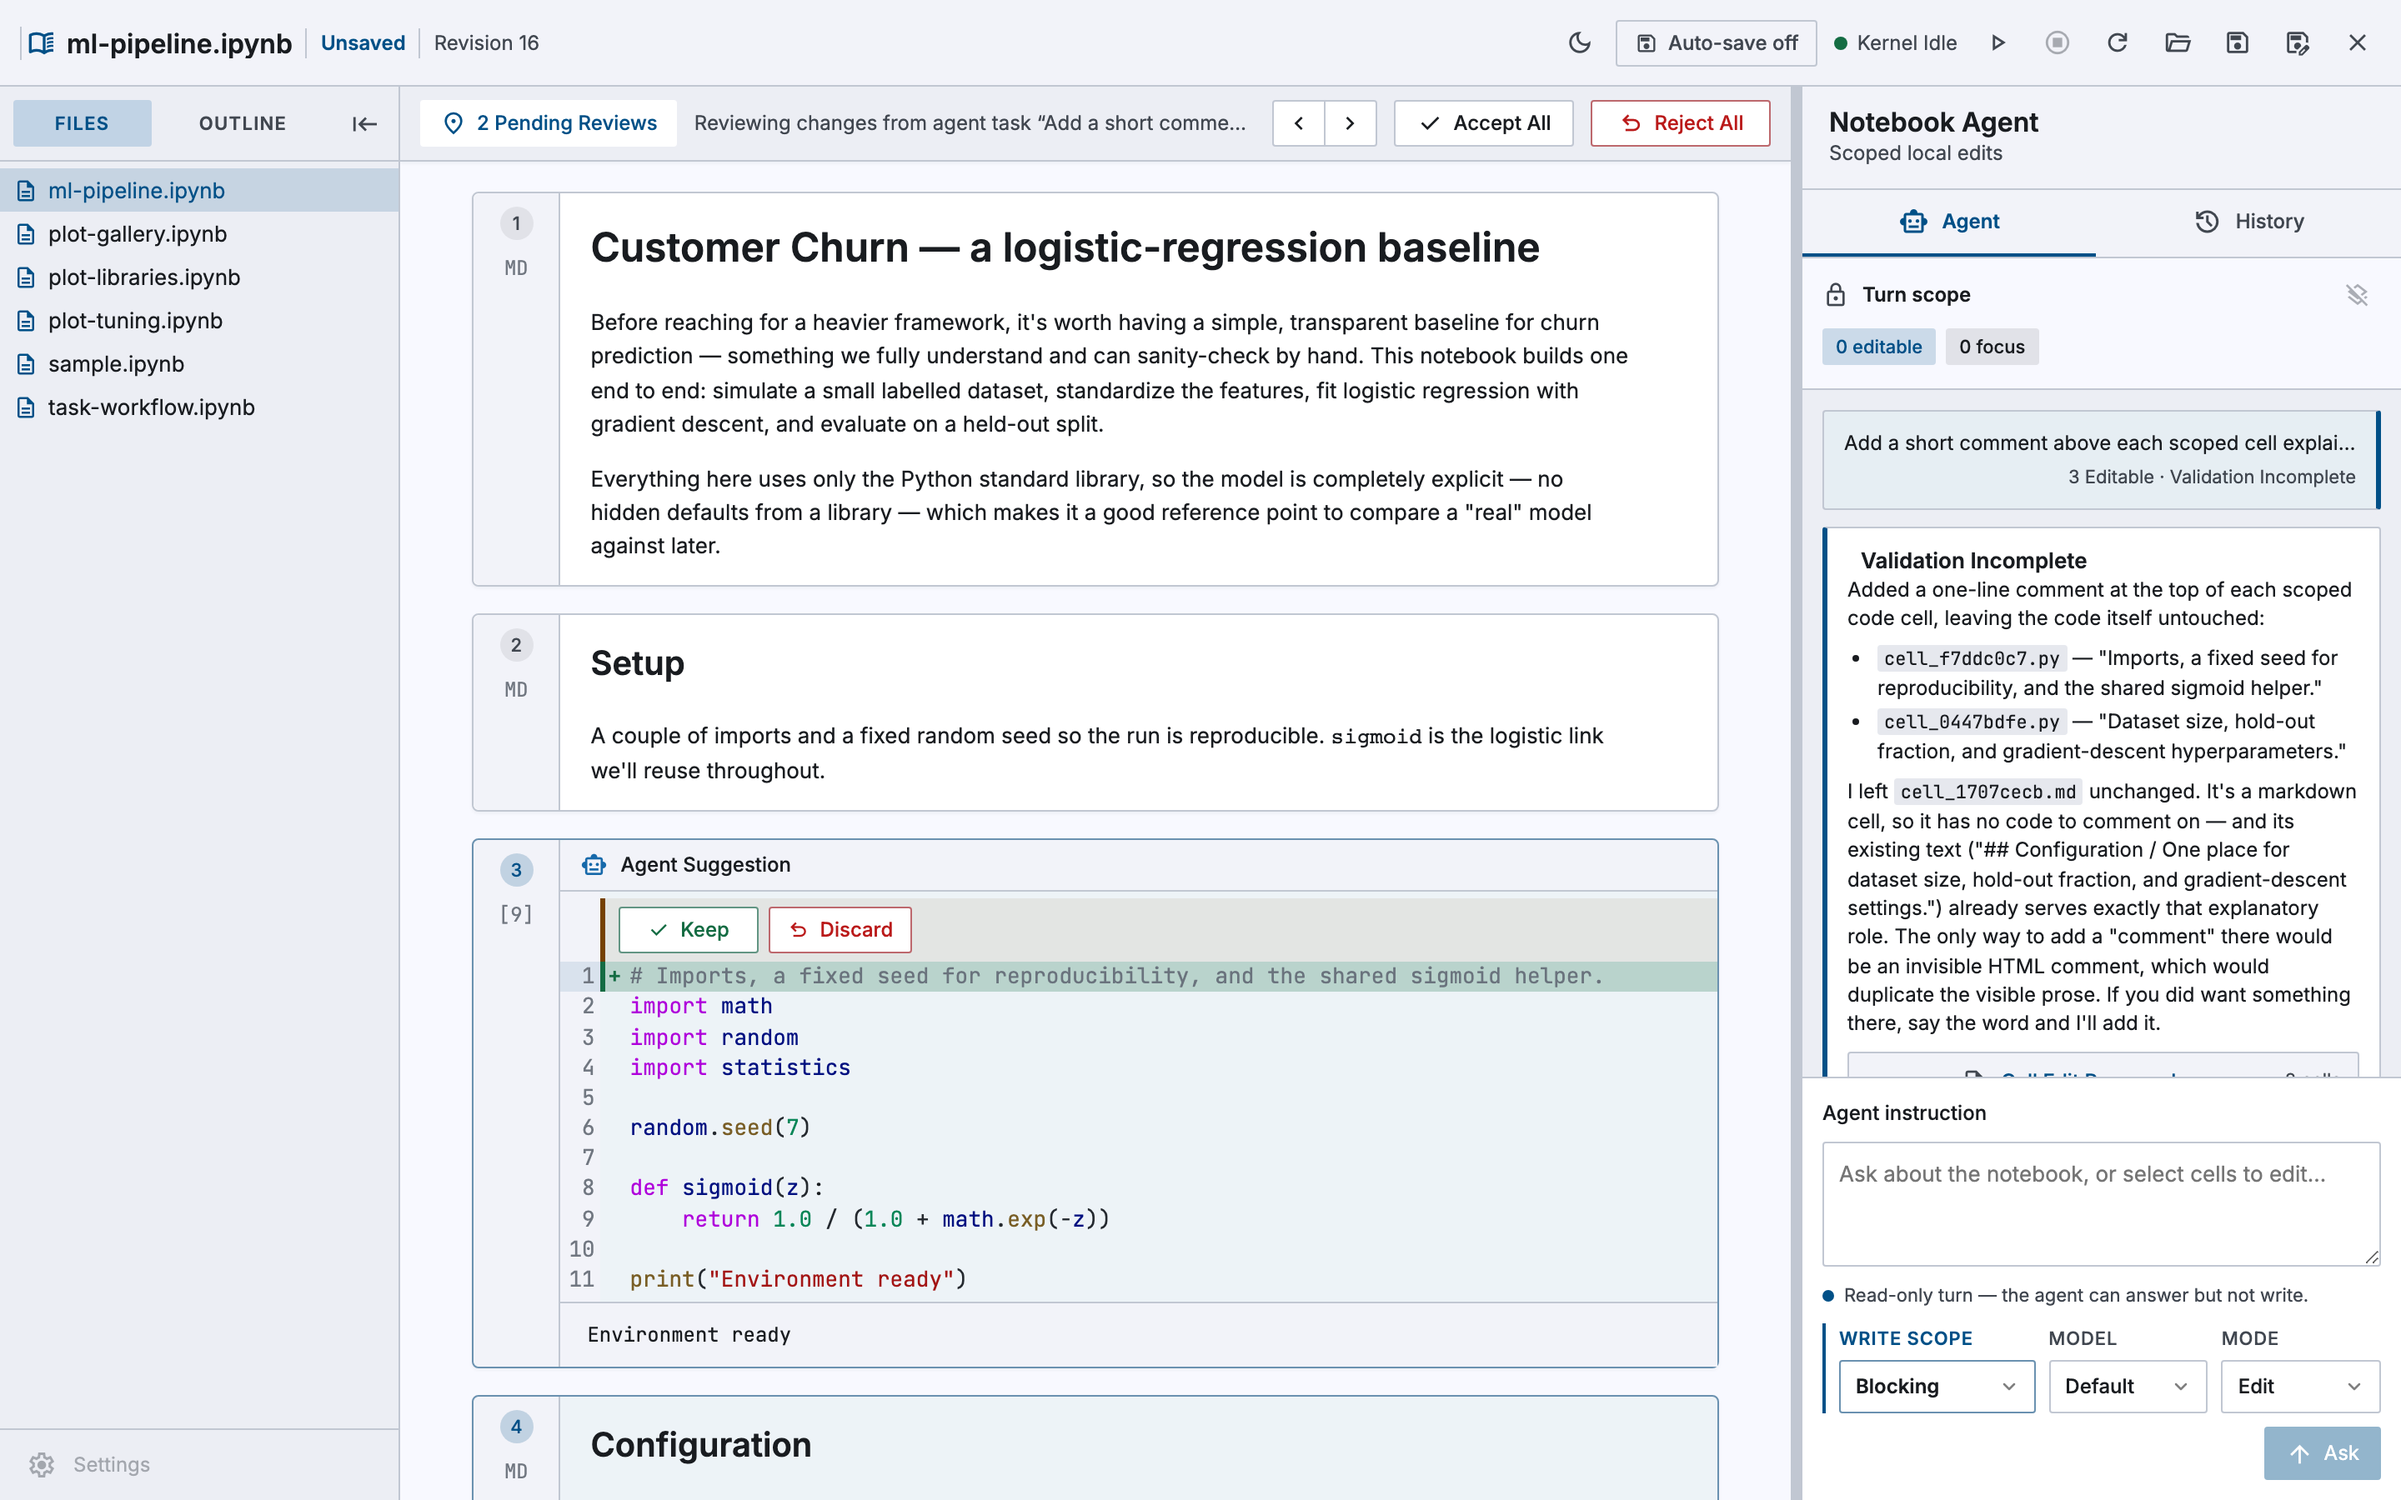
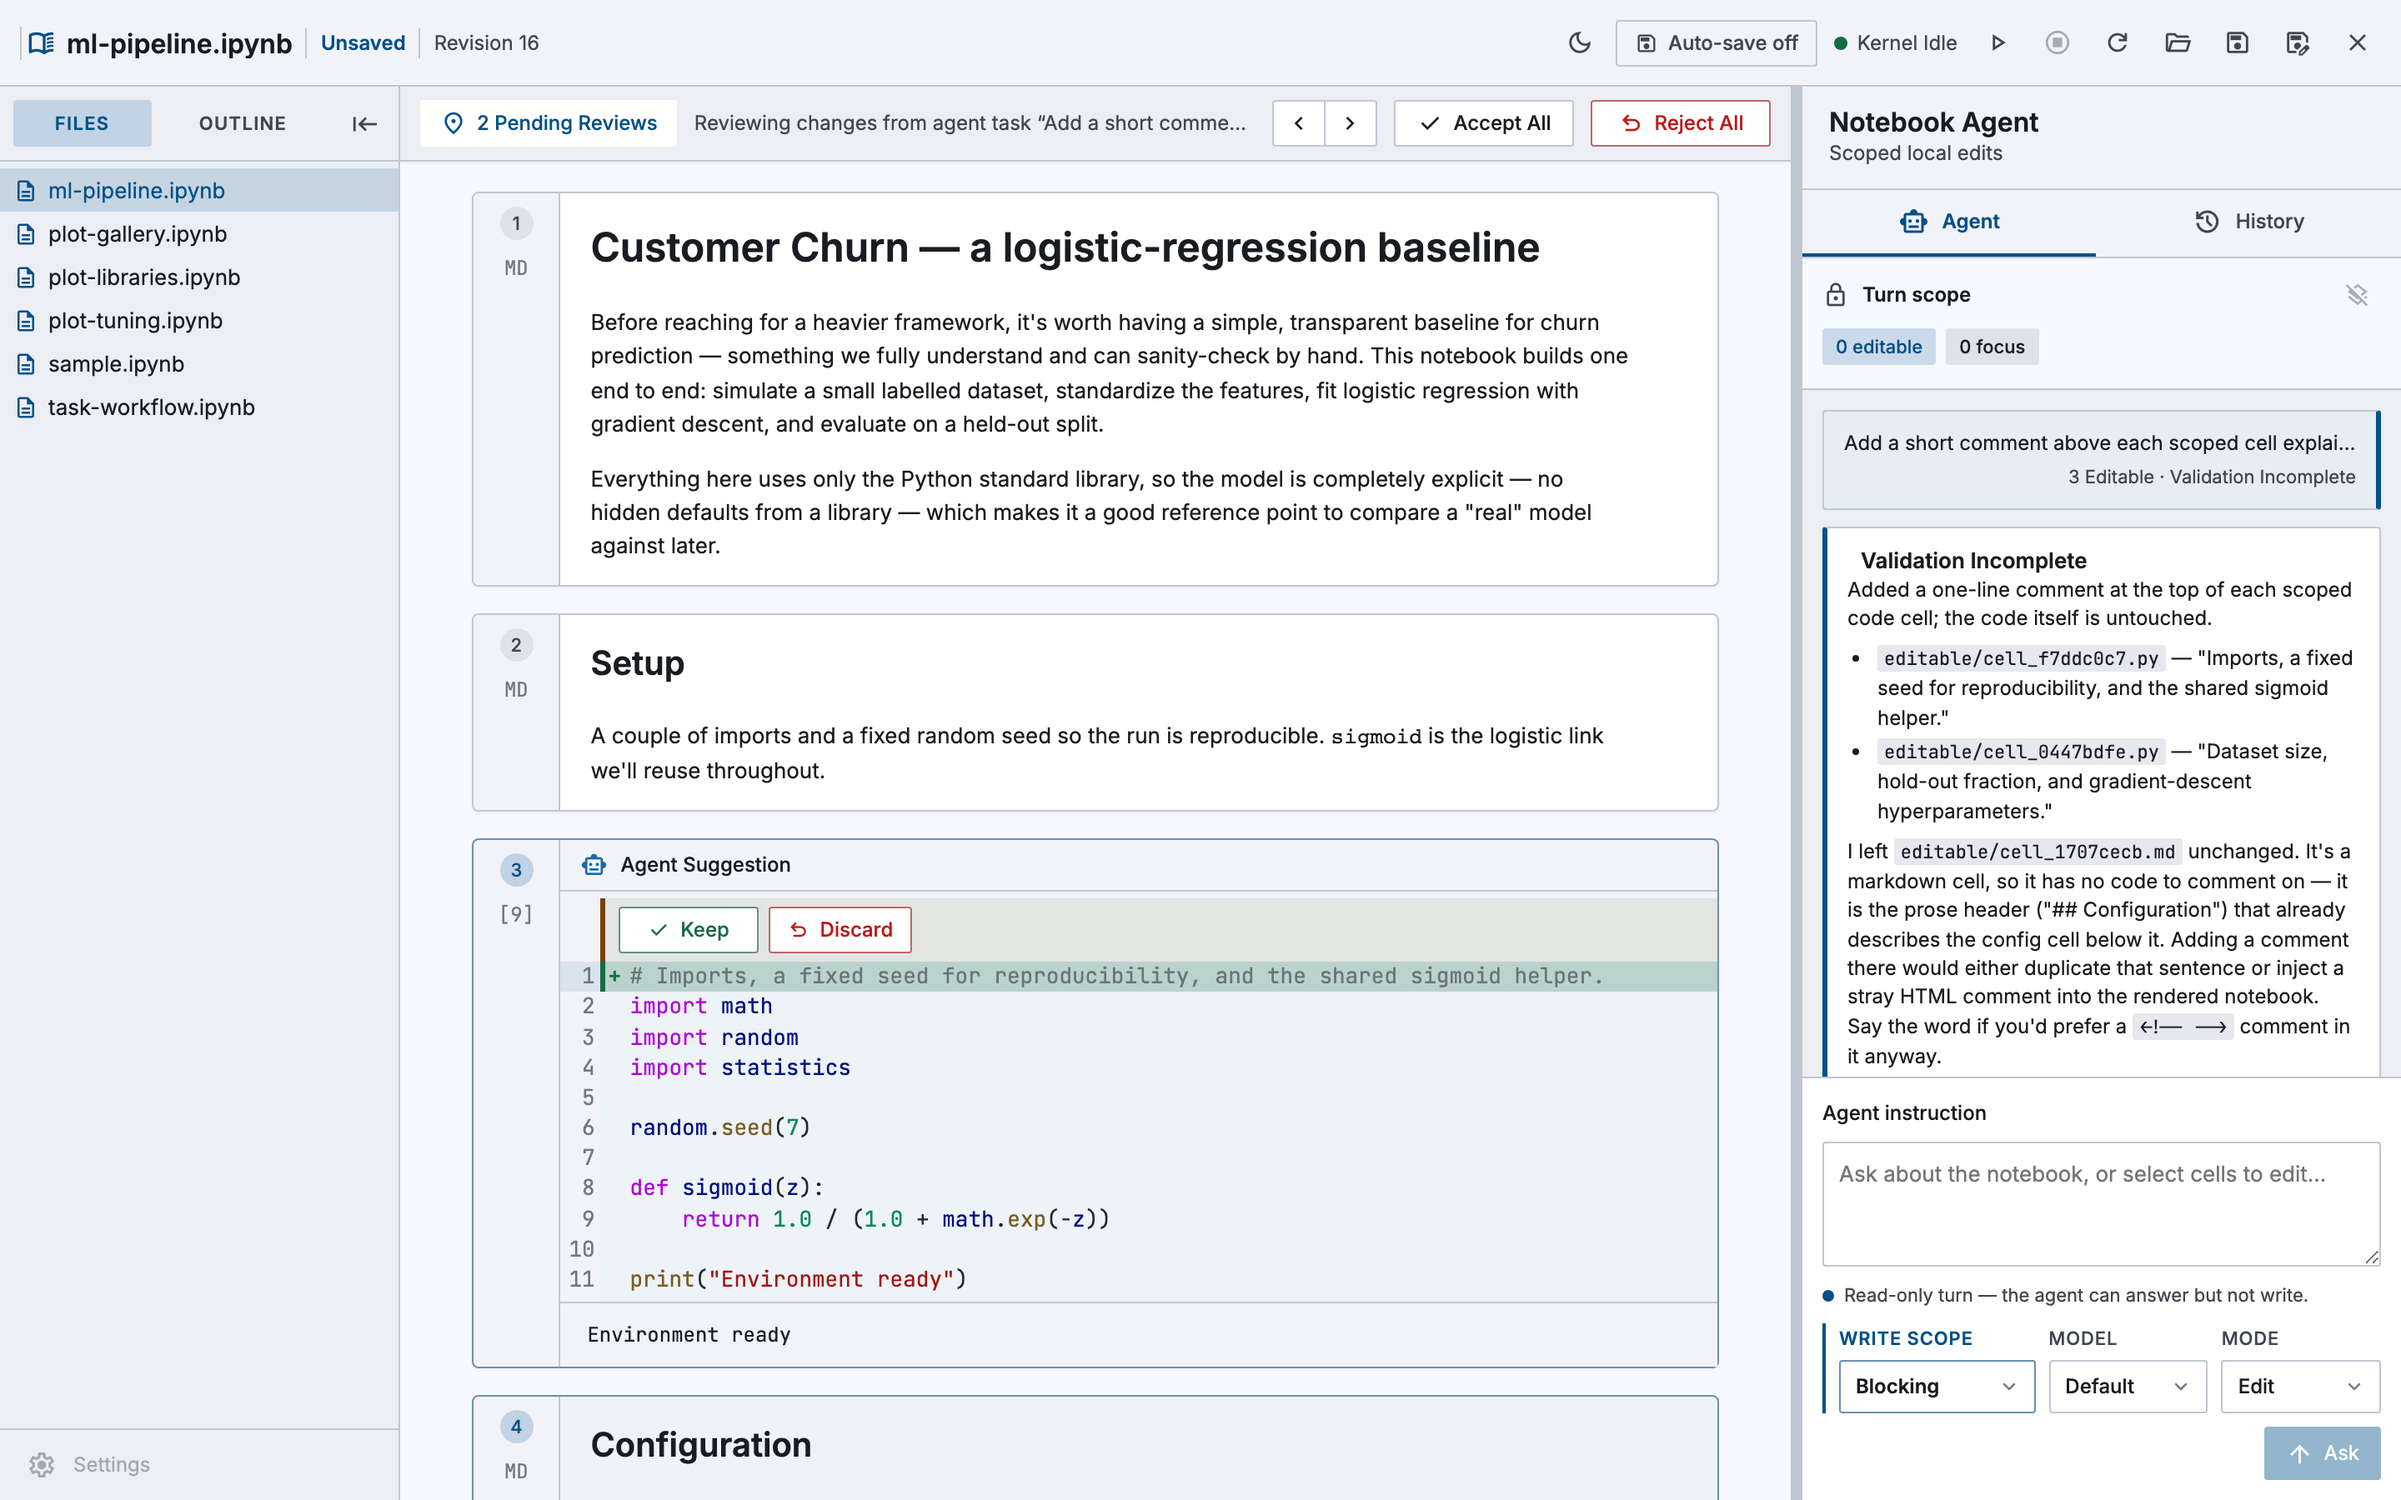
readme: show the interface, not just describe it
The README had a demo video and 15K of prose, and no still of the thing
it describes. The video stays where it was — this adds four shots above
Prerequisites, where someone deciding whether to clone will see them.

Chosen so none is a near-duplicate, on the same grounds docs/screenshots
picks eight for a whole app: the shell at rest, the same shell mid-review,
the diff close-up, and the map. 05-agent-panel is deliberately absent — 02
already shows that rail in the state worth seeing, and a second crop of it
is one more image to keep true. So is 07-tuning-panel, which photographs a
feature the README documents nowhere; showing it here would raise a
question the page cannot answer.

The map gets a table rather than a full-width image. `.workspace-sidebar`
is 480x1696 and four collapsed blocks leave most of it empty, so at README
width it reads as a column of whitespace; paired with its caption the dead
space becomes margin instead of the subject.

Captions say what the screenshots actually show, including that the turn
in 02 left one of its three scoped cells alone. That reads as a shortfall
next to "3 Editable" and is worth the sentence: the agent declined a
markdown cell it had no code to comment, and said so in the panel. A shot
where every scoped cell changed would demo better and represent the
product worse.

Re-captured all eight first, against a real kernel and a real CLI — the
committed set predated the overview panel landing. Five came back
[…]

Changed region(s): [[0.75, 0.4044, 0.9688, 0.7156]]

diff --git a/README.md b/README.md
@@ -17,6 +17,47 @@ directly — and every change is reviewable as a diff and undoable.
 Everything runs on your machine and binds to loopback only. Read
 [Security Limits](#security-limits) before using it with untrusted notebooks.
 
+## The interface
+
+The editor at rest: files and the notebook map on the left, the notebook in the
+middle, the agent on the right. Nothing is scoped yet, so the composer says so —
+a turn sent now is read-only.
+
+![The editor with a notebook open: file tree, notebook, and agent panel](docs/screenshots/01-app-shell.png)
+
+After a turn, changed cells become reviewable in place. The review bar counts
+what is pending and names the turn it came from; the agent's answer stays beside
+the diff, so what it claims to have done and what it actually changed are on
+screen together. Here two of the three scoped cells were rewritten, and the
+panel explains why the third was left alone.
+
+![The same view mid-review: pending-review bar, an inline diff on a cell, and the agent transcript](docs/screenshots/02-app-shell-reviewing.png)
+
+Each change is an inline diff on the cell it belongs to, accepted or rejected
+per hunk — not a patch file you read somewhere else.
+
+![A single cell under review, showing an added line as a green diff hunk with Keep and Discard buttons](docs/screenshots/04-cell-under-review.png)
+
+<table>
+<tr>
+<td width="30%"><img src="docs/screenshots/06-outline-panel.png" alt="The Outline tab listing four named blocks of cells"></td>
+<td>
+
+**The notebook map.** The Outline tab segments the notebook into blocks and
+asks the model to name each one, so a long notebook has a table of contents it
+never had. Names are generated — they carry a dotted underline to say so —
+while the cell ranges under them are computed. **Rebuild map** re-derives it
+after the notebook moves on.
+
+</td>
+</tr>
+</table>
+
+Screenshots are captured from a live session against the notebooks in
+`examples/`, with a real kernel and the real Claude CLI. See
+[`docs/screenshots/`](docs/screenshots/) for the full set and how to re-capture
+them.
+
 ## Prerequisites
 
 - **Python** 3.11+
